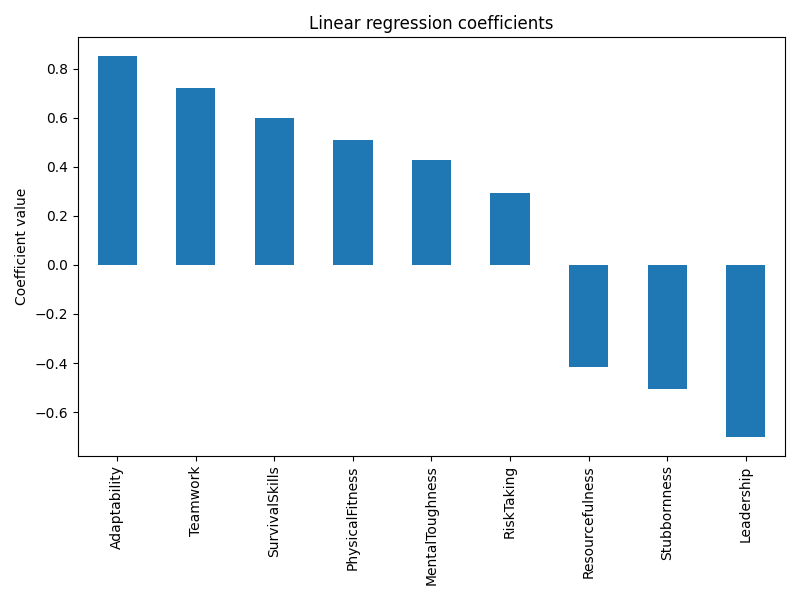
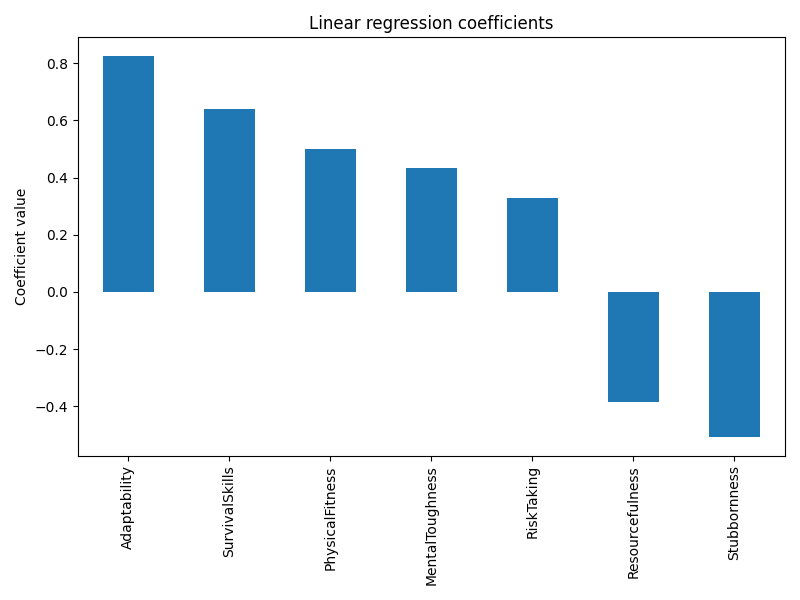
Updated

diff --git a/survivor_analysis/sole_survivor_analysis.py b/survivor_analysis/sole_survivor_analysis.py
@@ -27,7 +27,20 @@ def prepare_features(past, nxt):
     X = past[feature_cols].copy()
     y = past['SurvivalScore'].copy()
     X_next = nxt[feature_cols].copy()
-    return X, y, X_next, feature_cols
+
+    # Select features by absolute correlation with SurvivalScore
+    # Keep both strong positive and strong negative correlations
+    corr_with_target = past[feature_cols + ['SurvivalScore']].corr()['SurvivalScore'].drop('SurvivalScore')
+    # threshold for 'strong' correlation (absolute value)
+    thresh = 0.20
+    selected = corr_with_target[ corr_with_target.abs() >= thresh ].sort_values(key=lambda s: s.abs(), ascending=False)
+    if len(selected) == 0:
+        # fallback: keep all features
+        selected_features = feature_cols
+    else:
+        selected_features = list(selected.index)
+
+    return X[selected_features].copy(), y, X_next[selected_features].copy(), selected_features, corr_with_target
 
 
 def train_and_evaluate(X, y, random_state=42):
@@ -96,7 +109,10 @@ def save_plots(base_path, past, X_test, y_test, y_pred, feature_cols, model, X_n
     # This function will not rely on pred_df above; plots will be built by caller instead
 
 
-def write_briefing(base_path, metrics, coef_series, next_preds_df, plots_relative='plots'):
+
+
+
+def write_briefing(base_path, metrics, coef_series, next_preds_df, selected_features, corr_with_target, plots_relative='plots'):
     # next_preds_df: DataFrame with columns ['Name', 'Predicted'] sorted desc
     briefing_path = os.path.join(base_path, 'briefing.md')
     with open(briefing_path, 'w', encoding='utf-8') as f:
@@ -118,7 +134,13 @@ def write_briefing(base_path, metrics, coef_series, next_preds_df, plots_relativ
         else:
             f.write('- The model explains little variance (R^2 <= 0.3). The specialists appear to rely on factors not captured in the numeric features or apply inconsistent scoring.\n')
 
-        f.write('\n## Important features (top coefficients)\n')
+        f.write('\n## Feature selection by (absolute) correlation with SurvivalScore\n')
+        f.write('Selected features (|corr| >= 0.20), showing correlation and sign:\n')
+        for feat in selected_features:
+            f.write(f"- {feat}: {corr_with_target.loc[feat]:.3f}\n")
+        f.write('\n')
+
+        f.write('## Important features (top coefficients)\n')
         for feat, val in coef_series.head(5).items():
             f.write(f'- {feat}: {val:.3f}\n')
         f.write('\n')
@@ -139,7 +161,7 @@ def write_briefing(base_path, metrics, coef_series, next_preds_df, plots_relativ
 def main():
     base_path = os.path.dirname(__file__)
     past, nxt = load_data(base_path)
-    X, y, X_next, feature_cols = prepare_features(past, nxt)
+    X, y, X_next, feature_cols, corr_with_target = prepare_features(past, nxt)
 
     # Keep Name list for next dataset
     names_next = nxt['Name'].values
@@ -182,7 +204,7 @@ def main():
     plt.savefig(os.path.join(plots_dir, 'correlation_heatmap.png'))
     plt.close()
 
-    # Coefficients bar
+    # Coefficients bar (index matches selected features)
     coefs = pd.Series(model.coef_, index=feature_cols).sort_values(ascending=False)
     plt.figure(figsize=(8, 6))
     coefs.plot(kind='bar')
@@ -205,8 +227,8 @@ def main():
     plt.savefig(os.path.join(plots_dir, 'next_top10.png'))
     plt.close()
 
-    # Write briefing markdown
-    write_briefing(base_path, metrics, coefs, next_preds_df)
+    # Write briefing markdown (include selected features and their correlations)
+    write_briefing(base_path, metrics, coefs, next_preds_df, feature_cols, corr_with_target)
 
     # Also write a CSV with predictions
     next_preds_df.to_csv(os.path.join(base_path, 'next_predictions.csv'), index=False)

diff --git a/survivor_analysis/briefing.md b/survivor_analysis/briefing.md
@@ -3,26 +3,36 @@
 This briefing summarizes the exploratory analysis, model performance, and predictions for the next season.
 
 ## Model performance (on held-out test set)
-- RMSE: 7.848
-- MAE: 5.693
-- R^2: 0.791
+- RMSE: 8.019
+- MAE: 5.822
+- R^2: 0.782
 
 ## Are survival specialists scoring contestants well?
 We train a linear regression on available features to predict the official SurvivalScore. If the model explains the scores well (high R^2, low errors), then scores correlate strongly with measurable features.
 
 - The model explains a large portion of the variance (R^2 > 0.6). This suggests the specialists are applying consistent, measurable criteria.
 
+## Feature selection by (absolute) correlation with SurvivalScore
+Selected features (|corr| >= 0.20), showing correlation and sign:
+- RiskTaking: -0.434
+- SurvivalSkills: 0.430
+- PhysicalFitness: 0.350
+- Stubbornness: -0.326
+- Adaptability: 0.321
+- MentalToughness: 0.310
+- Resourcefulness: 0.307
+
 ## Important features (top coefficients)
-- Adaptability: 0.850
-- Teamwork: 0.720
-- SurvivalSkills: 0.599
-- PhysicalFitness: 0.510
-- MentalToughness: 0.428
+- Adaptability: 0.824
+- SurvivalSkills: 0.639
+- PhysicalFitness: 0.500
+- MentalToughness: 0.434
+- RiskTaking: 0.330
 
 ## Top predicted contestants for next season
-1. Nico — predicted SurvivalScore: 84.390
-2. Byron — predicted SurvivalScore: 70.765
-3. Jonah — predicted SurvivalScore: 66.002
+1. Nico — predicted SurvivalScore: 82.250
+2. Byron — predicted SurvivalScore: 69.714
+3. Jonah — predicted SurvivalScore: 62.230
 
 ## Charts
 - Predicted vs Actual: plots/predicted_vs_actual.png
